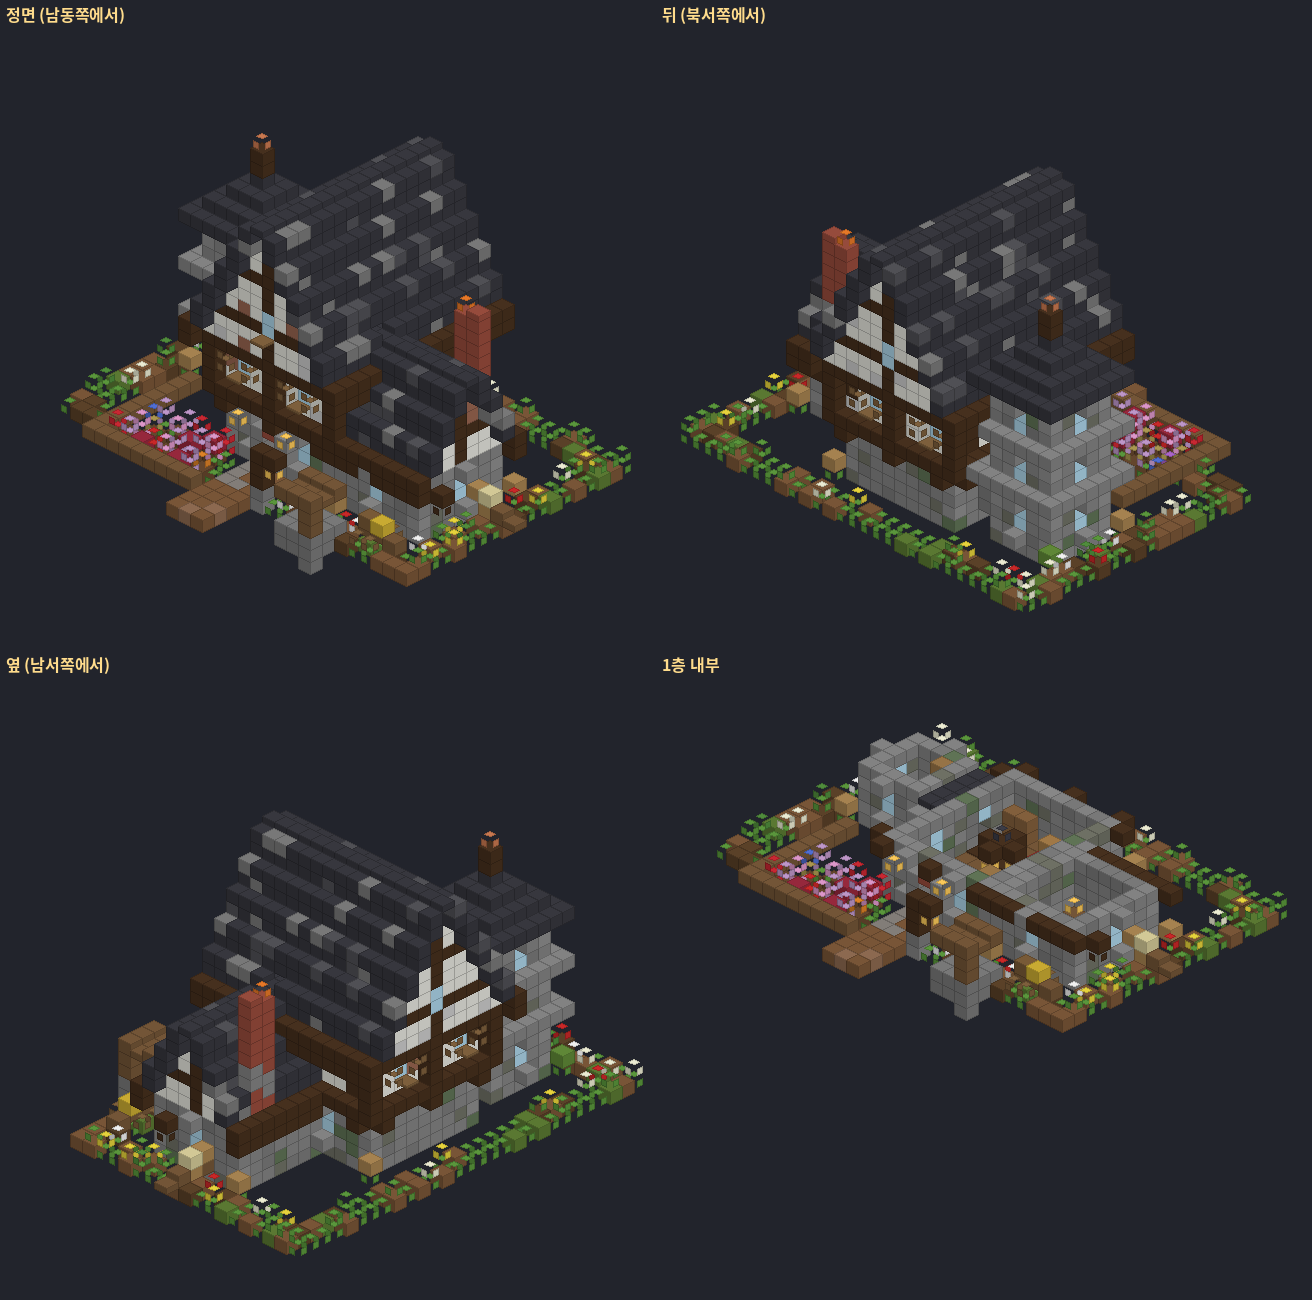
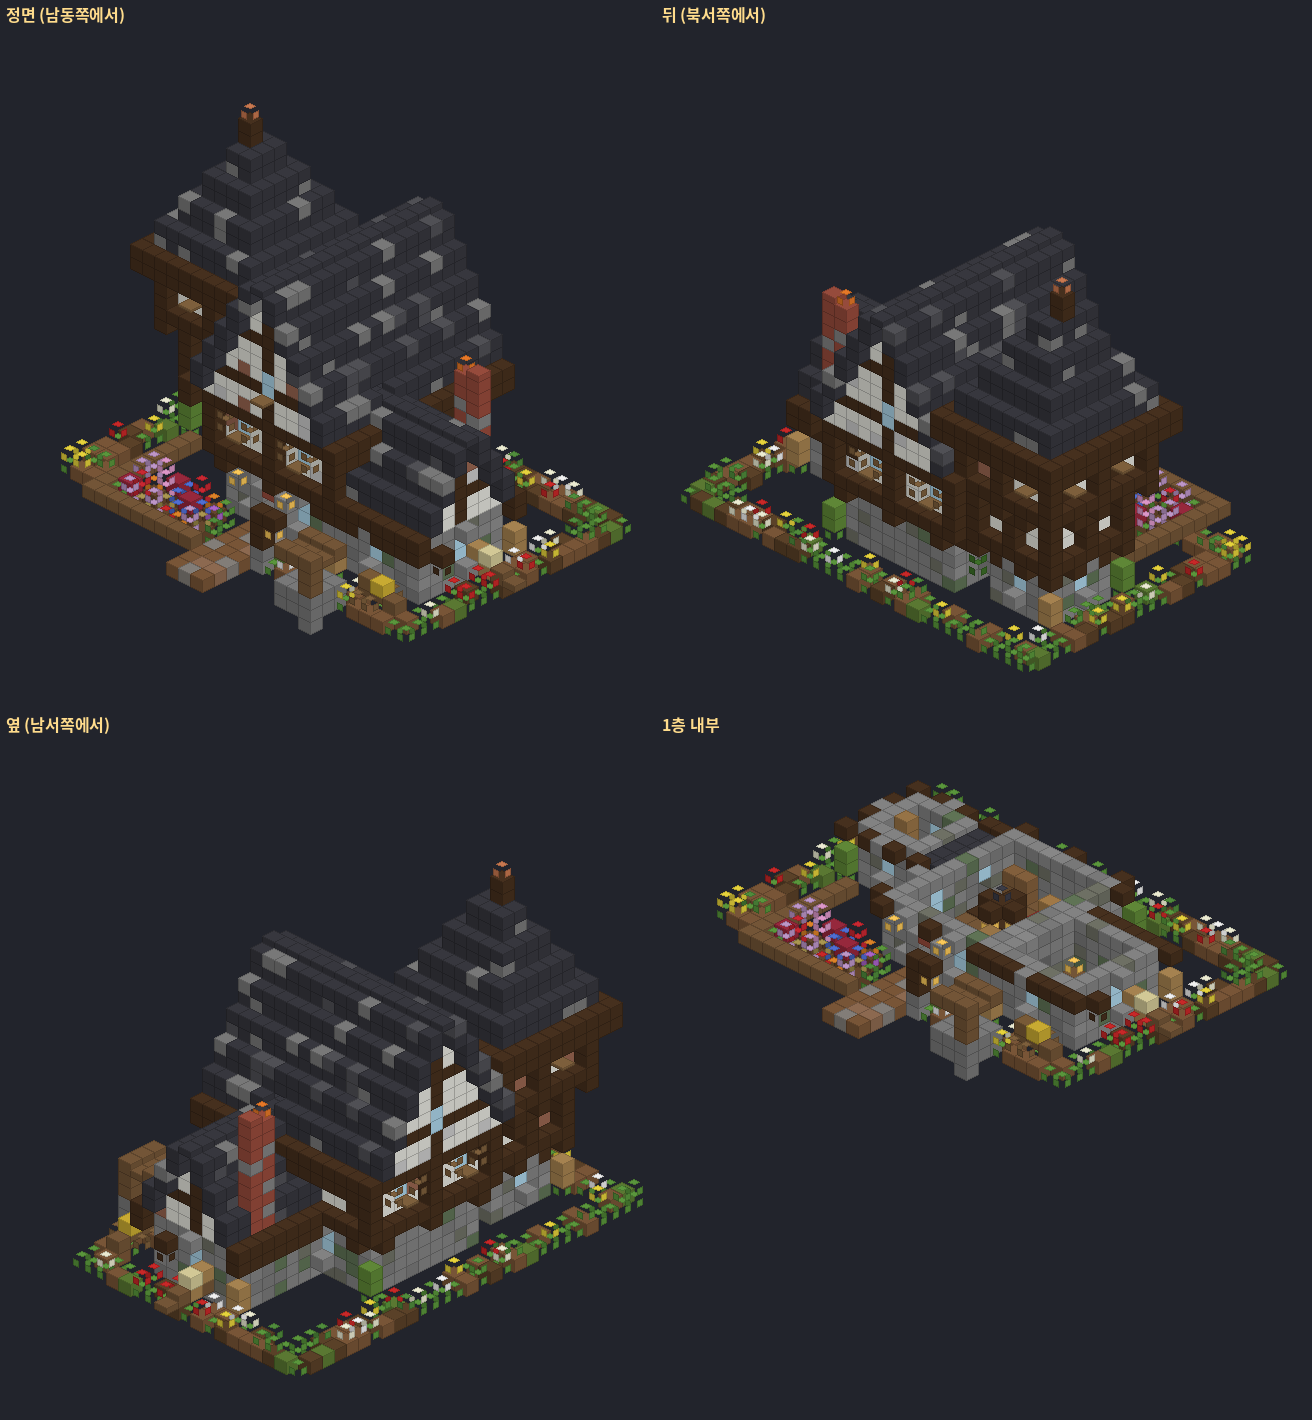
manor v4: half-timbered jettied tower with flared steep pyramid roof
Claude-Session: https://claude.ai/code/session_01PYiSEmRV1n6PLXUiXnrrEy

diff --git a/buildings/lib4.py b/buildings/lib4.py
@@ -116,3 +116,42 @@ def steep_roof(s, r, x0, x1, z0, z1, y, axis='x', full='deepslate_tiles', stair=
             else:
                 put(q, t, yyy, r.choice(gable))
     return yy
+
+def steep_pyramid(s, r, x0, x1, z0, z1, y, full='deepslate_tiles', stair='deepslate_tile', eave='dark_oak', over=1, moss=0.06):
+    """가파른 사각뿔 지붕 + 처마 끝 들림(첫 단은 나무 계단, 그 위로 2:1)"""
+    xa, xb, za, zb, yy, first = x0 - over, x1 + over, z0 - over, z1 + over, y, True
+    def m(base):
+        return 'mossy_cobblestone' if r.random() < moss else base
+    while xb - xa >= 1 and zb - za >= 1:
+        ring = [(x, za, 'south') for x in range(xa, xb + 1)] + [(x, zb, 'north') for x in range(xa, xb + 1)] + \
+               [(xa, z, 'east') for z in range(za + 1, zb)] + [(xb, z, 'west') for z in range(za + 1, zb)]
+        for x, z, f in ring:
+            if first:
+                s.set(x, yy, z, f'{eave}_stairs[facing={f},half=bottom,shape=straight]')
+                opp = {'south': 'north', 'north': 'south', 'east': 'west', 'west': 'east'}[f]
+                if s.get(x, yy - 1, z) is None: s.set(x, yy - 1, z, f'{eave}_stairs[facing={opp},half=top,shape=straight]')
+            else:
+                s.set(x, yy, z, m(full)); s.set(x, yy + 1, z, f'{m(stair)}_stairs[facing={f},half=bottom,shape=straight]')
+        yy += 1 if first else 2
+        xa += 1; xb -= 1; za += 1; zb -= 1; first = False
+    cx, cz = (x0 + x1) // 2, (z0 + z1) // 2
+    top = yy
+    for x in range(xa, xb + 1):
+        for z in range(za, zb + 1): s.set(x, yy - 1, z, full); s.set(x, yy, z, f'{stair}_slab[type=bottom]')
+    s.set(cx, top, cz, 'dark_oak_fence'); s.set(cx, top + 1, cz, 'dark_oak_fence'); s.set(cx, top + 2, cz, 'lightning_rod[facing=up,powered=false,waterlogged=false]')
+    return top
+
+def jetty_floor(s, x0, z0, x1, z1, y, frame='dark_oak', sides=('n', 's', 'e', 'w')):
+    """층 사이 들보 테두리 + 바닥 + 까치발 (x0..x1, z0..z1 = 위층 바깥선)"""
+    for x in range(x0, x1 + 1):
+        for z in range(z0, z1 + 1): s.set(x, y, z, 'spruce_planks')
+    for x in range(x0, x1 + 1): s.set(x, y, z0, f'{frame}_log[axis=x]'); s.set(x, y, z1, f'{frame}_log[axis=x]')
+    for z in range(z0, z1 + 1): s.set(x0, y, z, f'{frame}_log[axis=z]'); s.set(x1, y, z, f'{frame}_log[axis=z]')
+    if 'n' in sides:
+        for x in range(x0, x1 + 1, 2): s.set(x, y - 1, z0, f'{frame}_stairs[facing=south,half=top,shape=straight]') if s.get(x, y - 1, z0) is None else None
+    if 's' in sides:
+        for x in range(x0, x1 + 1, 2): s.set(x, y - 1, z1, f'{frame}_stairs[facing=north,half=top,shape=straight]') if s.get(x, y - 1, z1) is None else None
+    if 'w' in sides:
+        for z in range(z0, z1 + 1, 2): s.set(x0, y - 1, z, f'{frame}_stairs[facing=east,half=top,shape=straight]') if s.get(x0, y - 1, z) is None else None
+    if 'e' in sides:
+        for z in range(z0, z1 + 1, 2): s.set(x1, y - 1, z, f'{frame}_stairs[facing=west,half=top,shape=straight]') if s.get(x1, y - 1, z) is None else None

diff --git a/buildings/harold_v4.py b/buildings/harold_v4.py
@@ -41,21 +41,17 @@ def build():
     s.set(3, 4, 12, 'lantern[hanging=true]') if False else None
     for x in (2, 6): s.set(x, 4, 12, 'lantern[hanging=true]')
     for x in (3, 5): s.set(x, 4, 11, 'red_wall_banner[facing=south]') if False else None
-    # ── 탑: x-7~-3, z1~5 ──
+    # ── 반목조 탑: 돌 1층(x-7~-3, z1~5) → 2층 돌출(x-8~-2, z0~6) → 3층 한 번 더 돌출(서·남·북) → 가파른 사각뿔 ──
     tx0, tx1, tz0, tz1 = -7, -3, 1, 5
-    stone_box(s, r, tx0, tz0, 5, 5, 1, 12)
-    for y in (5, 9):
-        for x in range(tx0 + 1, tx1):
-            for z in range(tz0 + 1, tz1): s.set(x, y, z, 'spruce_planks')
-        for x in range(tx0 - 1, tx1 + 2):
-            s.set(x, y, tz0 - 1, 'stone_brick_stairs[facing=south,half=top,shape=straight]'); s.set(x, y, tz1 + 1, 'stone_brick_stairs[facing=north,half=top,shape=straight]')
-        for z in range(tz0, tz1 + 1):
-            s.set(tx0 - 1, y, z, 'stone_brick_stairs[facing=east,half=top,shape=straight]'); s.set(tx1 + 1, y, z, 'stone_brick_stairs[facing=west,half=top,shape=straight]')
-    for y in (2, 6, 10):
-        deep_window(s, tx0, y, 3, 'west'); deep_window(s, -5, y, tz1, 'south'); deep_window(s, -5, y, tz0, 'north')
-    # 탑 꼭대기 흉벽 느낌 + 지붕
-    pyramid(s, tx0, tx1, tz0, tz1, 13, mat='deepslate_tile', over=1)
-    for y in range(1, 13): s.set(-4, y, 2, 'ladder[facing=south]')
+    stone_box(s, r, tx0, tz0, 5, 5, 1, 4)
+    deep_window(s, tx0, 2, 3, 'west'); deep_window(s, -5, 2, tz1, 'south'); deep_window(s, -5, 2, tz0, 'north')
+    jetty_floor(s, -8, 0, -2, 6, 5)
+    _, _, xs, zs = box(s, r, -8, 0, 7, 7, 6, 4, infill=INF, found=False, post_step=3, win_sides=('w', 's', 'n'))
+    jetty_floor(s, -9, -1, -2, 7, 10, sides=('n', 's', 'w'))
+    _, _, xs, zs = box(s, r, -9, -1, 8, 9, 11, 4, infill=INF, found=False, post_step=4, win_sides=('w', 's', 'n'))
+    for i in range(len(zs) - 1): diag_brace(s, zs[i], zs[i + 1], 11, 14, -8, axis='z')
+    steep_pyramid(s, r, -9, -2, -1, 7, 15, over=1)
+    for y in range(1, 11): s.set(-6, y, 3, 'ladder[facing=east]')
     for x in (-2, -1):                                         # 연결 복도
         s.set(x, 0, 3, 'stone_bricks')
         for y in (1, 2, 3):
@@ -89,8 +85,8 @@ def build():
     for x in range(2, 7):
         for z in range(4, 8): s.set(x, 6, z, 'brown_carpet')
     chandelier(s, 4, 9, 5, length=1)
-    s.set(-6, 6, 4, 'lectern[facing=east,has_book=true,powered=false]'); s.set(-6, 6, 2, 'bookshelf'); s.set(-6, 10, 4, 'chest[facing=east,type=single]')
-    s.set(-5, 8, 3, 'lantern[hanging=true]'); s.set(-5, 12, 3, 'lantern[hanging=true]')
+    s.set(-4, 6, 4, 'lectern[facing=west,has_book=true,powered=false]'); s.set(-6, 6, 2, 'bookshelf'); s.set(-7, 11, 4, 'chest[facing=east,type=single]'); s.set(-7, 11, 1, 'barrel[facing=up,open=false]')
+    s.set(-5, 9, 3, 'lantern[hanging=true]'); s.set(-5, 14, 3, 'lantern[hanging=true]')
     # ── 바깥 ──
     path(s, r, 3, 5, 12, 18)
     well(s, r, 11, 15)
